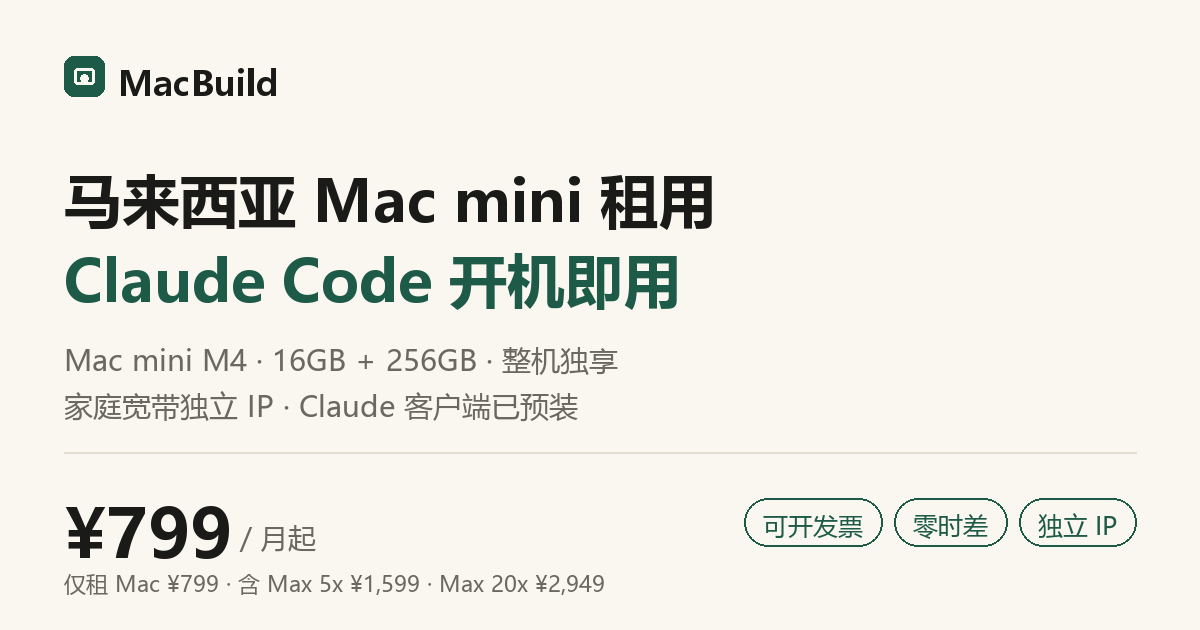
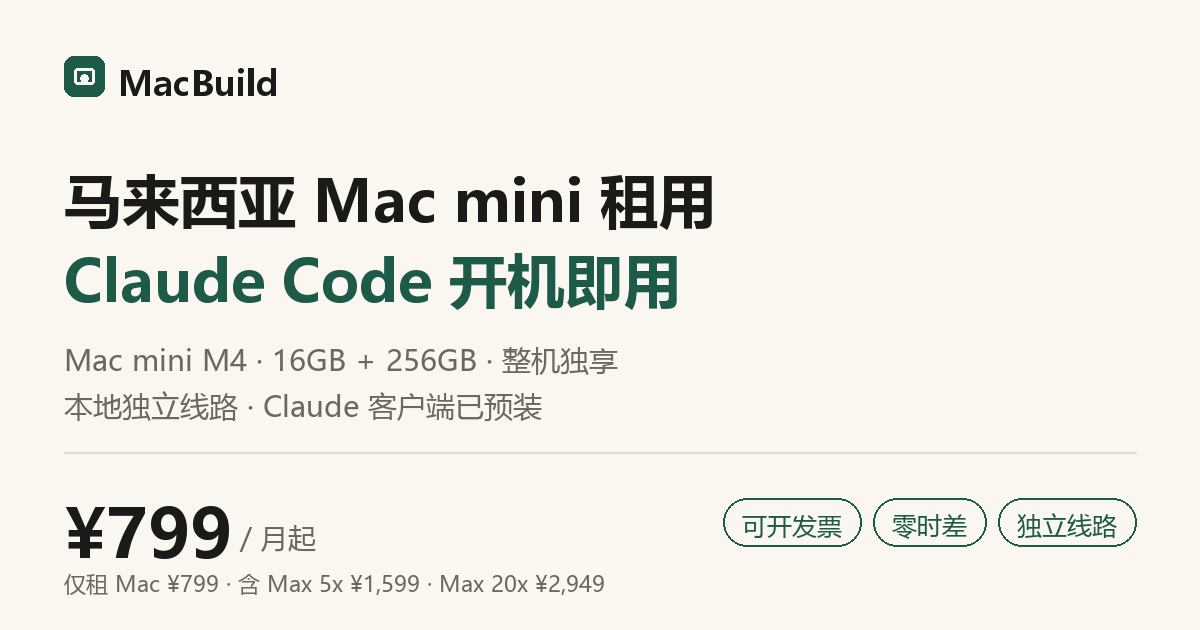
feat: dual-line pricing, fill contacts (WeChat/TG Mondbinch), soften IP claims

Changed region(s): [[0.6167, 0.7841, 0.925, 0.8746], [0.0308, 0.6032, 0.4933, 0.6635]]

diff --git a/index.html b/index.html
@@ -4,8 +4,8 @@
 <meta charset="utf-8">
 <meta name="viewport" content="width=device-width, initial-scale=1">
 <title>MacBuild · 马来西亚 Mac mini 租用 | Claude Code 开机即用 · ¥799 起</title>
-<meta name="description" content="MacBuild 出租放在马来西亚的专属 Mac mini M4，整机独享、家庭宽带独立 IP。Claude 桌面端与 Claude Code 已预装，可用你自己的账号，也可由我们代开 Claude Max。仅租 Mac ¥799/月，含 Max 5x ¥1,599/月，Max 20x ¥2,949/月。">
-<meta name="keywords" content="Claude Code 租赁,claude 租赁,Claude Max 代开,Mac mini 租赁,马来西亚 Mac,吉隆坡 Mac 托管,海外 Mac 租用,Mac 构建机,iOS 打包,CI/CD,Xcode,远程 Mac,独立 IP">
+<meta name="description" content="MacBuild 出租放在马来西亚的专属 Mac mini M4，整机独享、马来西亚本地独立线路。Claude 桌面端与 Claude Code 已预装，可用你自己的账号，也可由我们代开 Claude Max。仅租 Mac ¥799/月，含 Max 5x ¥1,599/月，Max 20x ¥2,949/月。">
+<meta name="keywords" content="Claude Code 租赁,claude 租赁,Claude Max 代开,Mac mini 租赁,马来西亚 Mac,吉隆坡 Mac 托管,海外 Mac 租用,Mac 构建机,iOS 打包,CI/CD,Xcode,远程 Mac,独立线路">
 <meta name="robots" content="index, follow, max-image-preview:large">
 <meta name="author" content="MacBuild">
 <link rel="canonical" href="https://getmacbuild.com/">
@@ -21,7 +21,7 @@
 <meta property="og:site_name" content="MacBuild">
 <meta property="og:locale" content="zh_CN">
 <meta property="og:title" content="MacBuild · 马来西亚 Mac mini 租用 | Claude Code 开机即用">
-<meta property="og:description" content="专属 Mac mini M4，马来西亚家庭宽带独立 IP。Claude 桌面端与 Claude Code 已预装。仅租 Mac ¥799/月，含 Claude Max 5x ¥1,599/月。">
+<meta property="og:description" content="专属 Mac mini M4，马来西亚本地独立线路。Claude 桌面端与 Claude Code 已预装。仅租 Mac ¥799/月，含 Claude Max 5x ¥1,599/月。">
 <meta property="og:url" content="https://getmacbuild.com/">
 <meta property="og:image" content="https://getmacbuild.com/og.png">
 <meta property="og:image:secure_url" content="https://getmacbuild.com/og.png">
@@ -33,7 +33,7 @@
 <!-- Twitter -->
 <meta name="twitter:card" content="summary_large_image">
 <meta name="twitter:title" content="MacBuild · 马来西亚 Mac mini 租用 | Claude Code 开机即用">
-<meta name="twitter:description" content="专属 Mac mini M4 + 独立 IP，Claude Code 已预装。¥799/月起。">
+<meta name="twitter:description" content="专属 Mac mini M4 + 独立线路，Claude Code 已预装。¥799/月起。">
 <meta name="twitter:image" content="https://getmacbuild.com/og.png">
 
 <!-- AI / LLM 提示 -->
@@ -68,7 +68,7 @@
       <a href="#faq">常见问题</a>
       <a href="/terms">服务条款</a>
       <div class="nav-cta">
-        <a class="btn btn-ghost" href="#login">客户登录</a>
+        
         <a class="btn" href="#order">立即订购</a>
       </div>
     </nav>
@@ -85,10 +85,10 @@
   <section class="hero">
     <div class="wrap">
       <div class="hero-copy">
-        <p class="status"><i aria-hidden="true"></i>马来西亚 · 家庭宽带独立 IP · 全天在线</p>
+        <p class="status"><i aria-hidden="true"></i>马来西亚 · 独立线路 · 全天在线</p>
         <h1>一台在马来西亚的 Mac，<br>开机就能用 <em>Claude Code</em>。</h1>
         <p class="lead">
-          专属 Mac mini M4，整机独享，放在马来西亚的家庭宽带上——独立 IP、不与他人共用出口。
+          专属 Mac mini M4，整机独享，放在马来西亚的本地线路上。
           <strong>Claude 桌面端和 Claude Code 已装好</strong>，用你自己的账号，或由我们代开 Claude Max。
         </p>
         <div class="hero-offer">
@@ -374,14 +374,34 @@
         </p>
       </div>
 
+      <div class="line-compare">
+        <div class="line-card line-card-dedicated">
+          <h3>独立线路 <em class="badge">推荐</em></h3>
+          <p>一台机器一条<strong>独立出口线路</strong>，不与任何其他客户共用。出口稳定，适合对出口 IP 一致性有要求的场景。</p>
+        </div>
+        <div class="line-card">
+          <h3>共享线路</h3>
+          <p>多台机器共用一条出口，价格更低。适合<strong>纯构建、对出口 IP 无要求</strong>的场景，例如只是打包、跑 CI。</p>
+        </div>
+      </div>
+
       <div class="tier-grid">
         <article class="tier">
           <p class="tier-name">仅租 Mac</p>
-          <p class="tier-price"><b>¥799</b><span>/ 月</span></p>
-          <p class="tier-desc">已有 Claude 订阅，只租机器和网络。</p>
+          <div class="tier-lines">
+            <div class="tier-line tier-line-dedicated">
+              <span class="line-tag">独立线路</span>
+              <span class="line-price"><b>¥999</b> / 月</span>
+            </div>
+            <div class="tier-line">
+              <span class="line-tag">共享线路</span>
+              <span class="line-price"><b>¥799</b> / 月</span>
+            </div>
+          </div>
+          <p class="tier-desc">已有 Claude 订阅，只租机器和线路。</p>
           <ul class="check-list">
             <li>专属 Mac mini M4（16G / 256G）</li>
-            <li>家庭宽带独立 IP，不与他人共用出口</li>
+            <li>马来西亚本地线路</li>
             <li>Claude 桌面端 + Claude Code 预装</li>
             <li>Xcode、Fastlane、Homebrew 预装</li>
             <li><b>用你自己的 Claude 账号</b></li>
@@ -391,7 +411,16 @@
 
         <article class="tier tier-featured">
           <p class="tier-name">Mac + Claude Max 5x <em class="badge">常用</em></p>
-          <p class="tier-price"><b>¥1,599</b><span>/ 月</span></p>
+          <div class="tier-lines">
+            <div class="tier-line tier-line-dedicated">
+              <span class="line-tag">独立线路</span>
+              <span class="line-price"><b>¥1,799</b> / 月</span>
+            </div>
+            <div class="tier-line">
+              <span class="line-tag">共享线路</span>
+              <span class="line-price"><b>¥1,599</b> / 月</span>
+            </div>
+          </div>
           <p class="tier-desc">日常用 Claude Code 写代码。</p>
           <ul class="check-list">
             <li>上面全部内容</li>
@@ -404,7 +433,16 @@
 
         <article class="tier">
           <p class="tier-name">Mac + Claude Max 20x</p>
-          <p class="tier-price"><b>¥2,949</b><span>/ 月</span></p>
+          <div class="tier-lines">
+            <div class="tier-line tier-line-dedicated">
+              <span class="line-tag">独立线路</span>
+              <span class="line-price"><b>¥3,149</b> / 月</span>
+            </div>
+            <div class="tier-line">
+              <span class="line-tag">共享线路</span>
+              <span class="line-price"><b>¥2,949</b> / 月</span>
+            </div>
+          </div>
           <p class="tier-desc">每天长时间跑 Claude Code。</p>
           <ul class="check-list">
             <li>上面全部内容</li>
@@ -417,7 +455,7 @@
       </div>
 
       <div class="price-side price-side-wide">
-        <h3>付款周期（按「仅租 Mac」计价）</h3>
+        <h3>付款周期（按「仅租 Mac · 共享线路」计价）</h3>
         <table class="cycle-table">
           <tbody>
             <tr><th>月付</th><td>¥799 <small>原价</small></td></tr>
@@ -426,10 +464,12 @@
             <tr><th>年付</th><td>¥7,670 <small>8 折</small></td></tr>
           </tbody>
         </table>
-        <p class="note">含 Claude 账号的套餐按台数和周期另议。多台设备按数量相乘。</p>
+        <p class="note">独立线路每月加 ¥200，同周期折扣同样适用。多台设备按数量相乘。</p>
       </div>
 
       <div class="price-notes">
+        <p><b>两种线路的区别：</b>独立线路 = 一台机器一条独立出口，不与其他客户共用；共享线路 = 多台机器共用一条出口，价格更低。两者都是马来西亚本地线路，都不是机房 IP、不是机场节点、不是共享代理池。</p>
+        <p><b>关于独立线路：</b>独立线路按批次开通，<b>下单前请先确认当期是否可交付</b>。若当期容量已满，我们会告知预计开通时间，期间按共享线路价格计费。</p>
         <p><b>不含什么：</b>仅租 Mac 套餐不含 Claude 账号；Mac + Max 套餐含账号但不含 Apple 开发者账号与签名证书。数据备份请自行准备。</p>
         <p><b>关于账号：</b>Claude Max 账号以你本人身份、通过官方渠道订阅，只给你自己用。我们只协助开通，不转售、不与他人共用，也不走逆向。</p>
         <p><b>退款政策：</b>交付前取消全额退款；我方故障超 48 小时未解决按天退款；主动退租按已用周期扣除后退还剩余（扣 10% 手续费）。详见<a href="/terms">服务条款</a>。</p>
@@ -492,7 +532,7 @@
 
         <details>
           <summary>账号会被封吗？<i aria-hidden="true"></i></summary>
-          <p><strong>IP 层面是干净的。</strong>设备走马来西亚本地家庭宽带，独立 IP，不与其他客户共用出口，也不是机房 IP、不是机场节点、不是共享代理池。</p>
+          <p><strong>IP 层面是干净的。</strong>设备走马来西亚本地线路，不是机房 IP、不是机场节点、也不是共享代理池。</p>
           <p><strong>但我们不保证任何账号不被封。</strong>账号状态取决于 Anthropic 的判定与你自己的使用行为（如共享、转售、反代、批量抓取等）。请遵守 Anthropic 的使用政策。因违规使用导致的停用不在我们的责任范围内。</p>
         </details>
 
@@ -572,6 +612,7 @@
         <h2>留下联系方式，我们 24 小时内回复。</h2>
         <p class="section-intro">
           填好下面的信息即可，不需要现在付款。我们会先确认库存与配置，再发正式报价。
+          <br><strong>着急的话，直接加微信 <b>Mondbinch</b> 或 Telegram <a href="https://t.me/Mondbinch">@Mondbinch</a> 更快。</strong>
         </p>
       </div>
 
@@ -652,7 +693,7 @@
     <div class="footer-grid">
       <div>
         <p class="footer-brand">MacBuild</p>
-        <p class="footer-desc">马来西亚机房整机独享的 Mac 构建机托管。人民币计价，24 小时交付。</p>
+        <p class="footer-desc">马来西亚本地线路的专属 Mac 托管。Claude Code 已预装，人民币计价，24 小时交付。</p>
       </div>
       <div>
         <h3>产品</h3>
@@ -667,9 +708,9 @@
         <h3>支持</h3>
         <ul>
           <li><a href="#faq">常见问题</a></li>
-          <li><a href="#login">客户登录</a></li>
           <li><a href="#order">在线申请</a></li>
-          <li><a href="https://t.me/你的telegram">Telegram</a></li>
+          <li>微信：<b>Mondbinch</b></li>
+          <li><a href="https://t.me/Mondbinch">Telegram：@Mondbinch</a></li>
         </ul>
       </div>
       <div>
@@ -739,13 +780,13 @@ document.querySelectorAll('.faq details').forEach(d => {
       "@id": "https://getmacbuild.com/#org",
       "name": "MacBuild",
       "url": "https://getmacbuild.com",
-      "email": "你的邮箱",
-      "sameAs": ["https://t.me/你的telegram"],
+      "url": "https://t.me/Mondbinch",
+      "sameAs": ["https://t.me/Mondbinch"],
       "contactPoint": {
         "@type": "ContactPoint",
         "contactType": "customer support",
-        "email": "你的邮箱",
-        "url": "https://t.me/你的telegram",
+        "url": "https://t.me/Mondbinch",
+        "url": "https://t.me/Mondbinch",
         "availableLanguage": ["zh-CN", "en"]
       }
     },
@@ -763,7 +804,7 @@ document.querySelectorAll('.faq details').forEach(d => {
       "name": "MacBuild",
       "description": "马来西亚吉隆坡的整机独享 Mac mini M4 构建机托管服务。",
       "url": "https://getmacbuild.com",
-      "email": "你的邮箱",
+      "url": "https://t.me/Mondbinch",
       "priceRange": "¥799 - ¥7,670",
       "currenciesAccepted": "CNY",
       "address": {
@@ -783,14 +824,14 @@ document.querySelectorAll('.faq details').forEach(d => {
       "@type": "Product",
       "@id": "https://getmacbuild.com/#product",
       "name": "Mac mini M4 构建机托管",
-      "description": "专属 Mac mini（Apple Silicon M4，16GB 统一内存，256GB SSD），部署于马来西亚。家庭宽带独立 IP，预装 Claude 桌面端、Claude Code、Xcode 与 Fastlane。可选仅租 Mac，或含 Claude Max 5x / 20x 账号。",
+      "description": "专属 Mac mini（Apple Silicon M4，16GB 统一内存，256GB SSD），部署于马来西亚。马来西亚本地独立线路，预装 Claude 桌面端、Claude Code、Xcode 与 Fastlane。可选仅租 Mac，或含 Claude Max 5x / 20x 账号。",
       "brand": { "@type": "Brand", "name": "Apple" },
       "category": "云主机托管服务",
       "offers": [
         {
           "@type": "Offer",
           "name": "仅租 Mac（月付）",
-          "description": "专属 Mac mini M4，家庭宽带独立 IP，Claude Code 已预装，账号自备。",
+          "description": "专属 Mac mini M4，马来西亚本地独立线路，Claude Code 已预装，账号自备。",
           "price": "799",
           "priceCurrency": "CNY",
           "availability": "https://schema.org/InStock",
@@ -922,7 +963,7 @@ document.querySelectorAll('.faq details').forEach(d => {
     e.preventDefault();
 
     if (!configured) {
-      status.textContent = '表单尚未接通（缺少 Formspree ID），请先通过 Telegram 联系我们。';
+      status.textContent = '表单尚未接通。请直接加微信 Mondbinch 或 Telegram @Mondbinch 联系我们。';
       status.className = 'form-status err';
       return;
     }
@@ -955,7 +996,7 @@ document.querySelectorAll('.faq details').forEach(d => {
         btn.disabled = false;
       }
     } catch (err) {
-      status.textContent = '网络异常，请稍后重试，或直接通过 Telegram 联系。';
+      status.textContent = '网络异常，请稍后重试，或直接加微信 Mondbinch 联系我们。';
       status.className = 'form-status err';
       btn.textContent = original;
       btn.disabled = false;

diff --git a/style.css b/style.css
@@ -886,3 +886,77 @@ p a:not(.btn),
 
 .footer-legal { margin-top: 10px; font-size: 12px; color: var(--muted); line-height: 1.7; }
 
+
+/* ---------- 线路对比 ---------- */
+.line-compare {
+  display: grid;
+  grid-template-columns: 1fr 1fr;
+  gap: 20px;
+  margin-bottom: 32px;
+}
+.line-card {
+  padding: 24px 26px;
+  background: var(--paper-alt);
+  border: 1px solid var(--line);
+  border-radius: var(--radius);
+}
+.line-card-dedicated {
+  background: var(--accent-soft);
+  border-color: var(--accent);
+}
+.line-card h3 {
+  font-size: 17px;
+  margin-bottom: 10px;
+  display: flex;
+  align-items: center;
+  gap: 8px;
+}
+.line-card p { font-size: 14.5px; color: var(--ink-soft); line-height: 1.8; margin: 0; }
+
+/* ---------- 卡内双价格 ---------- */
+.tier-lines {
+  display: grid;
+  gap: 8px;
+  margin-bottom: 14px;
+}
+.tier-line {
+  display: flex;
+  align-items: baseline;
+  justify-content: space-between;
+  gap: 10px;
+  padding: 9px 13px;
+  background: var(--paper-alt);
+  border: 1px solid transparent;
+  border-radius: 8px;
+}
+.tier-line-dedicated {
+  background: var(--accent-soft);
+  border-color: var(--accent);
+}
+.line-tag {
+  font-size: 12.5px;
+  color: var(--muted);
+  white-space: nowrap;
+}
+.tier-line-dedicated .line-tag {
+  color: var(--accent);
+  font-weight: 600;
+}
+.line-price {
+  font-size: 12.5px;
+  color: var(--muted);
+  white-space: nowrap;
+}
+.line-price b {
+  font-family: var(--serif);
+  font-size: 25px;
+  font-weight: 600;
+  letter-spacing: -0.02em;
+  color: var(--ink);
+  margin-right: 2px;
+}
+.tier-line-dedicated .line-price b { color: var(--accent); }
+
+@media (max-width: 960px) {
+  .line-compare { grid-template-columns: 1fr; }
+}

diff --git a/terms.html b/terms.html
@@ -147,7 +147,7 @@
         <tr><th>存储</th><td>256 GB SSD</td></tr>
         <tr><th>网络</th><td>共享上行 ____ Mbps</td></tr>
         <tr><th>位置</th><td>马来西亚</td></tr>
-        <tr><th>网络</th><td>当地家庭宽带，独立 IP，不与其他客户共用出口</td></tr>
+        <tr><th>网络</th><td>马来西亚本地独立线路</td></tr>
       </table>
       <p><strong>设备可能因故障更换。</strong>更换时我们会使用同等或更高规格的设备，但不保证是同一台机器。更换前我们会通知你，并给予数据迁移的时间。</p>
 
@@ -352,7 +352,7 @@
       <ul>
         <li><strong>条款变更：</strong>重大变更会提前 7 天通知，变更后继续使用视为同意</li>
         <li><strong>适用法律：</strong>本条款适用 ____ 法律</li>
-        <li><strong>联系方式：</strong>邮箱 ____ ｜ Telegram ____ ｜ 响应时间：工作日 __:__–__:__</li>
+        <li><strong>联系方式：</strong>微信 Mondbinch ｜ Telegram <a href="https://t.me/Mondbinch">@Mondbinch</a> ｜ 响应时间：工作日 10:00–22:00（UTC+8）</li>
       </ul>
 
       <h2>下单确认</h2>
@@ -391,7 +391,7 @@
         <ul>
           <li><a href="index.html#faq">常见问题</a></li>
           <li><a href="#order">在线申请</a></li>
-          <li><a href="https://t.me/你的telegram">Telegram</a></li>
+          <li><a href="https://t.me/Mondbinch">Telegram</a></li>
         </ul>
       </div>
       <div>
